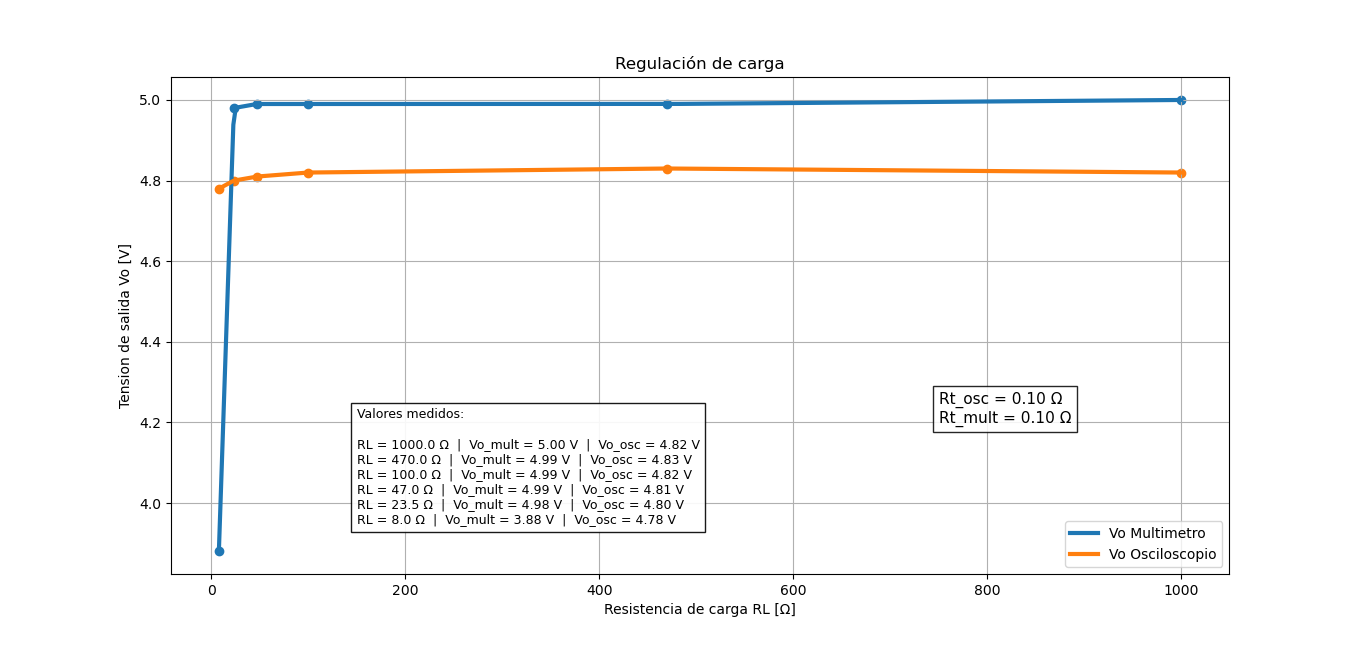
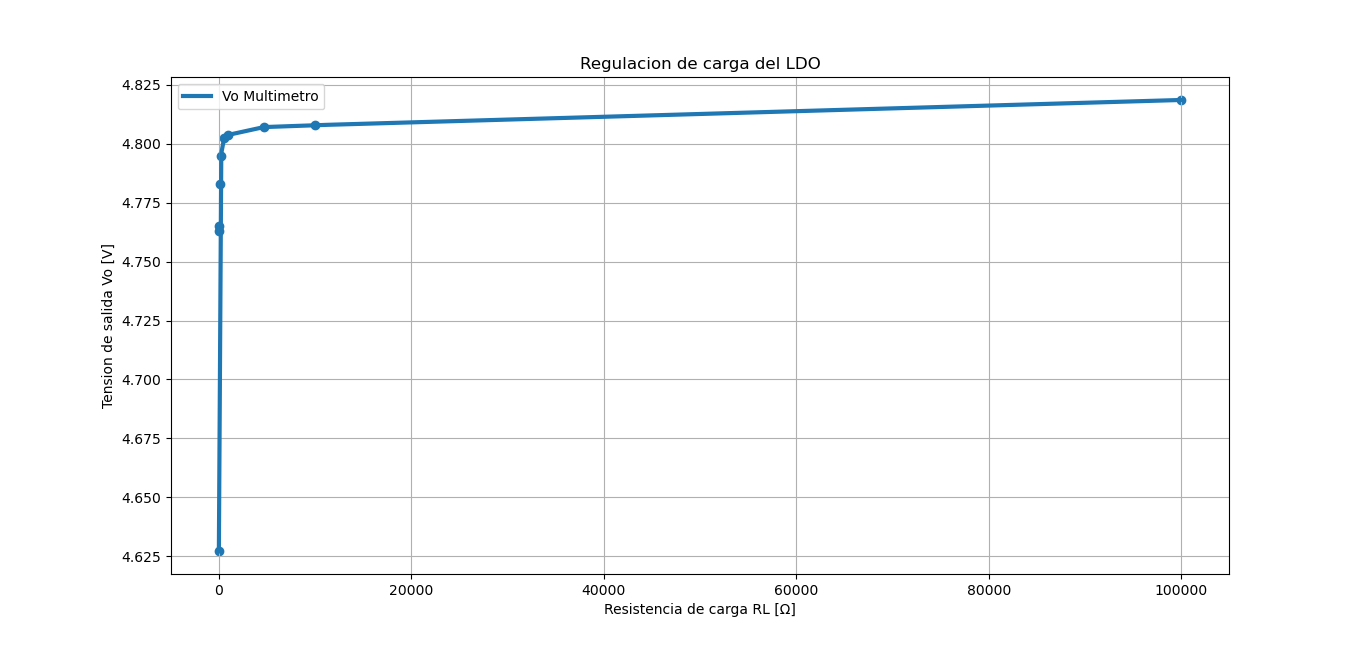
Nueva medicion regulacion de carga

diff --git a/Checkpoints/Checkpoint 3/Informe CHK 3/informe.tex b/Checkpoints/Checkpoint 3/Informe CHK 3/informe.tex
@@ -142,9 +142,18 @@ citestyle=apa
 
 	Continuando con el diseño de un regulador lineal que cumpla con las especificaciones definidas en informes previos, en este \textit{checkpoint} se avanza hacia su implementación en un prototipo de circuito impreso (PCB), con el fin de caracterizar y validar experimentalmente las prestaciones obtenidas en la etapa de diseño.
 	
+		
+	\subsubsection{Corrección de errores}
+	
+	Contemplando los errores advertidos del \textit{checkpoint} previo, se realizaron ciertas modificaciones pertinentes tanto al diseño del esquemático como al de la placa impresa.
+	
+	
+	
 	\section{Desarrollo}
 	
 	Para el desarrollo de este \textit{checkpoint 3} se adquirieron los materiales siguiendo el listado de partes y proveedores detallada en el apéndice \ref{sec:apendice_presupuesto}.
+	
+
 	
 
 	
@@ -284,22 +293,26 @@ citestyle=apa
 	
 	Para la regulación de carga se varia la resistencia de carga desde valores grandes de resistencias hacia los puntos críticos donde la corriente llega a su limite y debe actuar la regulación de corriente. Dichos valores medidos se encuentran tabulados en la tabla \ref{tab:reg_carga_ldo} y las curvas conseguidas tras interpolar los puntos medidos tanto para la medición en multimetro como en osciloscopio en la figura \ref{fig:regulacioncarga}. A su vez se realizo el calculo de resistencia de Thevenin correspondiente a la caracterización de la resistencia de salida del regulador lineal.
 	
+
 	\begin{table}[H]
 		\centering
 		\caption{Mediciones de regulación de carga estática del LDO}
-		\begin{tabular}{|c|c|c|}
+		\begin{tabular}{|c|c|}
 			\hline
 			\textbf{Resistencia de carga $R_L$ [$\Omega$]} &
-			\textbf{$V_O$ Multímetro [V]} &
-			\textbf{$V_O$ Osciloscopio [V]} \\
+			\textbf{$V_O$ Multímetro [V]} \\
 			\hline
 			
-			1000  & 5.00 & 4.82 \\
-			470   & 4.99 & 4.83 \\
-			100   & 4.99 & 4.82 \\
-			47    & 4.99 & 4.81 \\
-			23.5  & 4.98 & 4.80 \\
-			8     & 3.88 & 4.78 \\
+			100k & 4.8186 \\
+			10k  & 4.8079 \\
+			4k7   & 4.8071 \\
+			1k   & 4.8038 \\
+			560    & 4.8025 \\
+			220    & 4.7950 \\
+			100    & 4.7830 \\
+			47     & 4.7630 \\
+			23.5   & 4.7650 \\
+			10     & 4.6270 \\
 			
 			\hline
 		\end{tabular}

diff --git a/Checkpoints/Checkpoint 3/Graficos/regulacion_carga.py b/Checkpoints/Checkpoint 3/Graficos/regulacion_carga.py
@@ -7,12 +7,12 @@ from scipy.interpolate import interp1d
 # =========================================
 
 # Resistencias de carga [ohm]
-R = np.array([1000, 470, 100, 47, 23.5, 8])
+R = np.array([100000,10000,4700,1000, 560, 220,100, 47, 23.5, 10])
 
+Vo_ideal = 5
 # Mediciones de Vo
-Vo_mult = np.array([5, 4.99, 4.99, 4.99, 4.98, 3.88])
+Vo_mult = np.array([Vo_ideal- 0.1814 ,Vo_ideal-0.1921,Vo_ideal-0.1929,Vo_ideal- 0.1962,Vo_ideal - 0.1975,Vo_ideal -0.205,Vo_ideal - 0.217 , Vo_ideal-0.237,Vo_ideal-0.235,Vo_ideal - 0.373])
 
-Vo_osc = np.array([4.82, 4.83, 4.82, 4.81, 4.8, 4.78])
 
 # =========================================
 # INTERPOLACION
@@ -21,7 +21,7 @@ Vo_osc = np.array([4.82, 4.83, 4.82, 4.81, 4.8, 4.78])
 R_interp = np.linspace(R.min(), R.max(), 400)
 
 f_mult = interp1d(R, Vo_mult, kind='linear')
-f_osc = interp1d(R, Vo_osc, kind='linear')
+
 
 # =========================================
 # DATOS LTSPICE
@@ -63,14 +63,12 @@ plt.figure(figsize=(9,5))
 # Curvas interpoladas medidas
 plt.plot(   R_interp,f_mult(R_interp),label='Vo Multimetro',linewidth=3)
 
-plt.plot( R_interp, f_osc(R_interp), label='Vo Osciloscopio', linewidth=3)
 
 # Puntos medidos
 plt.scatter(R, Vo_mult)
-plt.scatter(R, Vo_osc)
 
 # Curva LTspice
-plt.plot(RL_lt,Vo_lt,'--',linewidth=3,label='Simulación LTspice')
+#plt.plot(RL_lt,Vo_lt,'--',linewidth=3,label='Simulación LTspice')
 
 # =========================================
 # TEXTOS
@@ -101,13 +99,8 @@ RT_mult = (
     (((V1_mult/V2_mult)*(R2_mult/R1_mult)) - 1)
 )
 
-RT_osc = (
-    ((1 - (V1_mult/V2_mult))*R2_mult) /
-    (((V1_mult/V2_mult)*(R2_mult/R1_mult)) - 1)
-)
 
 texto = (
-    f'Rt_osc = {RT_osc:.2f} Ω\n'
     f'Rt_mult = {RT_mult:.2f} Ω'
 )
 
@@ -125,12 +118,12 @@ plt.text(
 
 texto = (
     'Valores medidos:\n\n'
-    f'RL = {R[0]:.1f} Ω  |  Vo_mult = {Vo_mult[0]:.2f} V  |  Vo_osc = {Vo_osc[0]:.2f} V\n'
-    f'RL = {R[1]:.1f} Ω  |  Vo_mult = {Vo_mult[1]:.2f} V  |  Vo_osc = {Vo_osc[1]:.2f} V\n'
-    f'RL = {R[2]:.1f} Ω  |  Vo_mult = {Vo_mult[2]:.2f} V  |  Vo_osc = {Vo_osc[2]:.2f} V\n'
-    f'RL = {R[3]:.1f} Ω  |  Vo_mult = {Vo_mult[3]:.2f} V  |  Vo_osc = {Vo_osc[3]:.2f} V\n'
-    f'RL = {R[4]:.1f} Ω  |  Vo_mult = {Vo_mult[4]:.2f} V  |  Vo_osc = {Vo_osc[4]:.2f} V\n'
-    f'RL = {R[5]:.1f} Ω  |  Vo_mult = {Vo_mult[5]:.2f} V  |  Vo_osc = {Vo_osc[5]:.2f} V'
+    f'RL = {R[0]:.1f} Ω  |  Vo_mult = {Vo_mult[0]:.2f} V   \n'
+    f'RL = {R[1]:.1f} Ω  |  Vo_mult = {Vo_mult[1]:.2f} V  \n'
+    f'RL = {R[2]:.1f} Ω  |  Vo_mult = {Vo_mult[2]:.2f} V   \n'
+    f'RL = {R[3]:.1f} Ω  |  Vo_mult = {Vo_mult[3]:.2f} V  \n'
+    f'RL = {R[4]:.1f} Ω  |  Vo_mult = {Vo_mult[4]:.2f} V \n'
+    f'RL = {R[5]:.1f} Ω  |  Vo_mult = {Vo_mult[5]:.2f} V'
 )
 
 plt.text(